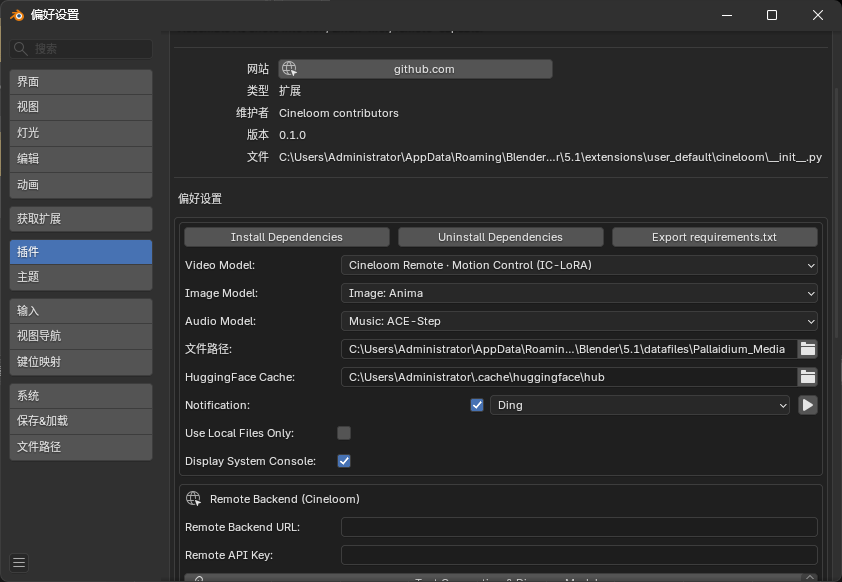
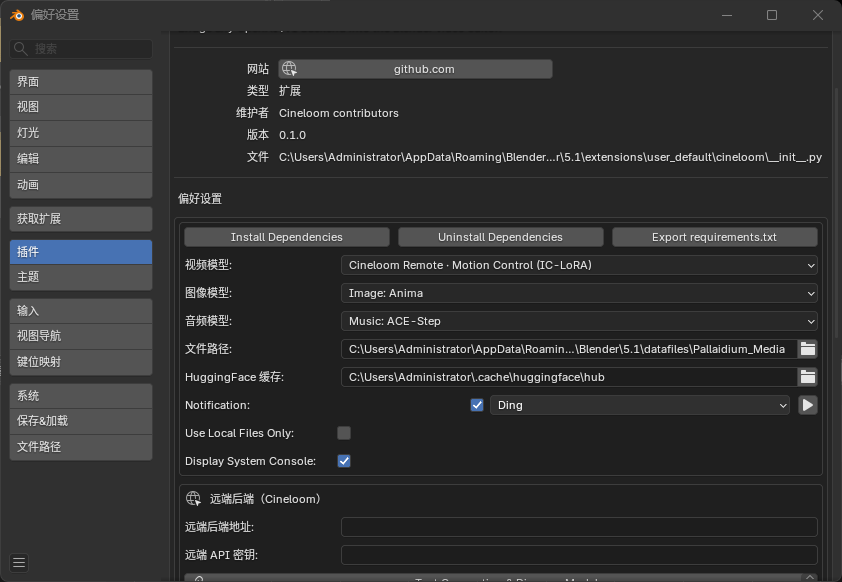
feat: move model selection into the panel; Preferences is connect-only
Per UX feedback: Preferences should only set the backend URL/key and test the
connection. Model selection belongs in the Cineloom sidebar panel, switchable
per generation.

- new Scene enum 'cineloom_backend_model', drawn in the Cineloom panel; items are
  the discovered models filtered to the current generation type (video/image/
  audio/text)
- remove the Backend Video Model dropdown from Preferences (now just URL/key/
  Test Connection + discovered list)
- remote plugins read scene.cineloom_backend_model
- zh-Hans label for 'Backend Model'

Verified on Blender 5.1: picker lists type-matched backend models in the panel.

diff --git a/properties/preferences.py b/properties/preferences.py
@@ -118,24 +118,6 @@ def _hf_cache_dir_update(self, context):
         os.environ["HF_HUB_CACHE"] = cache_dir
 
 
-def _discovered_video_items(self, context):
-    """Items for the Backend Video Model dropdown — the discovered models whose
-    type is video (or unknown). A module-level reference to the returned list is
-    kept to avoid Blender's dynamic-enum garbage-collection crash."""
-    items = [("", "(Backend default)", "Let the backend choose the model")]
-    try:
-        from ..ui.cineloom_jobs import discovery_status
-        for m in discovery_status().get("models", []):
-            if m.get("type") in ("", "video"):
-                mid = m.get("id", "")
-                if mid:
-                    items.append((mid, mid, "type: %s" % (m.get("type") or "?")))
-    except Exception:  # noqa: BLE001
-        pass
-    _discovered_video_items._cache = items
-    return items
-
-
 class GeneratorAddonPreferences(AddonPreferences):
     bl_idname = __package__.rsplit(".", 1)[0]
     soundselect: EnumProperty(
@@ -248,15 +230,6 @@ class GeneratorAddonPreferences(AddonPreferences):
         subtype="PASSWORD",
         maxlen=1024,
     )
-    cineloom_video_model: EnumProperty(
-        name="Backend Video Model",
-        description=(
-            "Which discovered backend model to use for remote video / motion-"
-            "control generation. Run Test Connection first to populate this list; "
-            "leave on '(Backend default)' to let the backend choose."
-        ),
-        items=_discovered_video_items,
-    )
 
     # --- Async dependency operation state (SKIP_SAVE — reset on restart) ---
     dep_is_running:     BoolProperty(default=False,  options={'SKIP_SAVE'})
@@ -365,7 +338,10 @@ class GeneratorAddonPreferences(AddonPreferences):
                 remote_box.label(text="    • %s%s" % (m["id"], t))
         except Exception:  # noqa: BLE001
             pass
-        remote_box.prop(self, "cineloom_video_model")
+        remote_box.label(
+            text="Pick the model in the Cineloom sidebar panel when you generate.",
+            icon="INFO",
+        )
         remote_box.label(
             text="Pick a 'Cineloom Remote · …' model to generate on the backend.",
             icon="INFO",

diff --git a/ui/cineloom_jobs.py b/ui/cineloom_jobs.py
@@ -57,6 +57,23 @@ def _discovery_tick():
     return 300.0  # every 5 minutes
 
 
+def backend_model_items(self, context):
+    """EnumProperty items for the in-panel backend-model picker, filtered to the
+    current generation type. ``self`` is the Scene. A module reference to the
+    returned list is kept to avoid Blender's dynamic-enum GC crash."""
+    type_map = {"movie": "video", "image": "image", "audio": "audio", "text": "text"}
+    want = type_map.get(getattr(self, "generatorai_typeselect", "movie"), "")
+    items = [("", "(Backend default)", "Let the backend choose the model")]
+    for m in _DISCOVERY.get("models", []):
+        t = m.get("type", "")
+        if t == want or t == "":
+            mid = m.get("id", "")
+            if mid:
+                items.append((mid, mid, "type: %s" % (t or "?")))
+    backend_model_items._cache = items
+    return items
+
+
 def _prefs():
     return bpy.context.preferences.addons[_ROOT].preferences
 
@@ -220,6 +237,11 @@ def register_jobs():
     for cls in _jobs_classes:
         bpy.utils.register_class(cls)
     bpy.types.Scene.cineloom_jobs = bpy.props.CollectionProperty(type=CineloomJobItem)
+    bpy.types.Scene.cineloom_backend_model = bpy.props.EnumProperty(
+        name="Backend Model",
+        description="Which discovered backend model to use; run Test Connection to populate",
+        items=backend_model_items,
+    )
     if not bpy.app.timers.is_registered(_discovery_tick):
         bpy.app.timers.register(_discovery_tick, first_interval=300.0, persistent=True)
 
@@ -230,10 +252,11 @@ def unregister_jobs():
             bpy.app.timers.unregister(_discovery_tick)
     except Exception:  # noqa: BLE001
         pass
-    try:
-        del bpy.types.Scene.cineloom_jobs
-    except Exception:  # noqa: BLE001
-        pass
+    for prop in ("cineloom_jobs", "cineloom_backend_model"):
+        try:
+            delattr(bpy.types.Scene, prop)
+        except Exception:  # noqa: BLE001
+            pass
     for cls in reversed(_jobs_classes):
         try:
             bpy.utils.unregister_class(cls)

diff --git a/ui/panels.py b/ui/panels.py
@@ -211,6 +211,15 @@ class SEQUENCER_PT_pallaidium_panel(Panel):  # UI
             except:
                 pass
 
+            # In-panel backend model picker — choose which discovered model to
+            # generate on, without leaving for Preferences. Shown once connected.
+            try:
+                from .cineloom_jobs import discovery_status
+                if discovery_status().get("models"):
+                    col.prop(context.scene, "cineloom_backend_model", text="Backend Model")
+            except Exception:
+                pass
+
 
         if type != "text":
             if type != "audio":

diff --git a/models_plugins/video/cineloom_remote_control.py b/models_plugins/video/cineloom_remote_control.py
@@ -66,9 +66,9 @@ class CineloomRemoteControlPlugin(ModelPlugin):
             "num_frames": int(inputs.frames),
             "seed": int(inputs.seed),
         }
-        model = (getattr(prefs, "cineloom_video_model", "") or "").strip()
+        model = (getattr(scene, "cineloom_backend_model", "") or "").strip()
         if model:
-            payload["model"] = model        # optional: a discovered control-capable model
+            payload["model"] = model        # the discovered model picked in the panel
         dst_path = solve_path(
             clean_filename(f"control_{inputs.seed}_{inputs.prompt}") + ".mp4"
         )

diff --git a/models_plugins/video/cineloom_remote_ltx.py b/models_plugins/video/cineloom_remote_ltx.py
@@ -69,7 +69,7 @@ class CineloomRemoteLTXPlugin(ModelPlugin):
             "strength": float(inputs.strength),
         }
 
-        model = (getattr(prefs, "cineloom_video_model", "") or "").strip()
+        model = (getattr(scene, "cineloom_backend_model", "") or "").strip()
         if model:
             payload["model"] = model
 

diff --git a/translations.py b/translations.py
@@ -22,7 +22,7 @@ _ZH = {
     (_C, "Test Connection & Discover Models"): "测试连接并发现模型",
     (_C, "Control Backend URL"): "控制后端地址",
     (_C, "Video Model"): "视频模型",
-    (_C, "Backend Video Model"): "后端视频模型",
+    (_C, "Backend Model"): "后端模型",
     (_C, "(Backend default)"): "（后端默认）",
     (_C, "Image Model"): "图像模型",
     (_C, "Audio Model"): "音频模型",